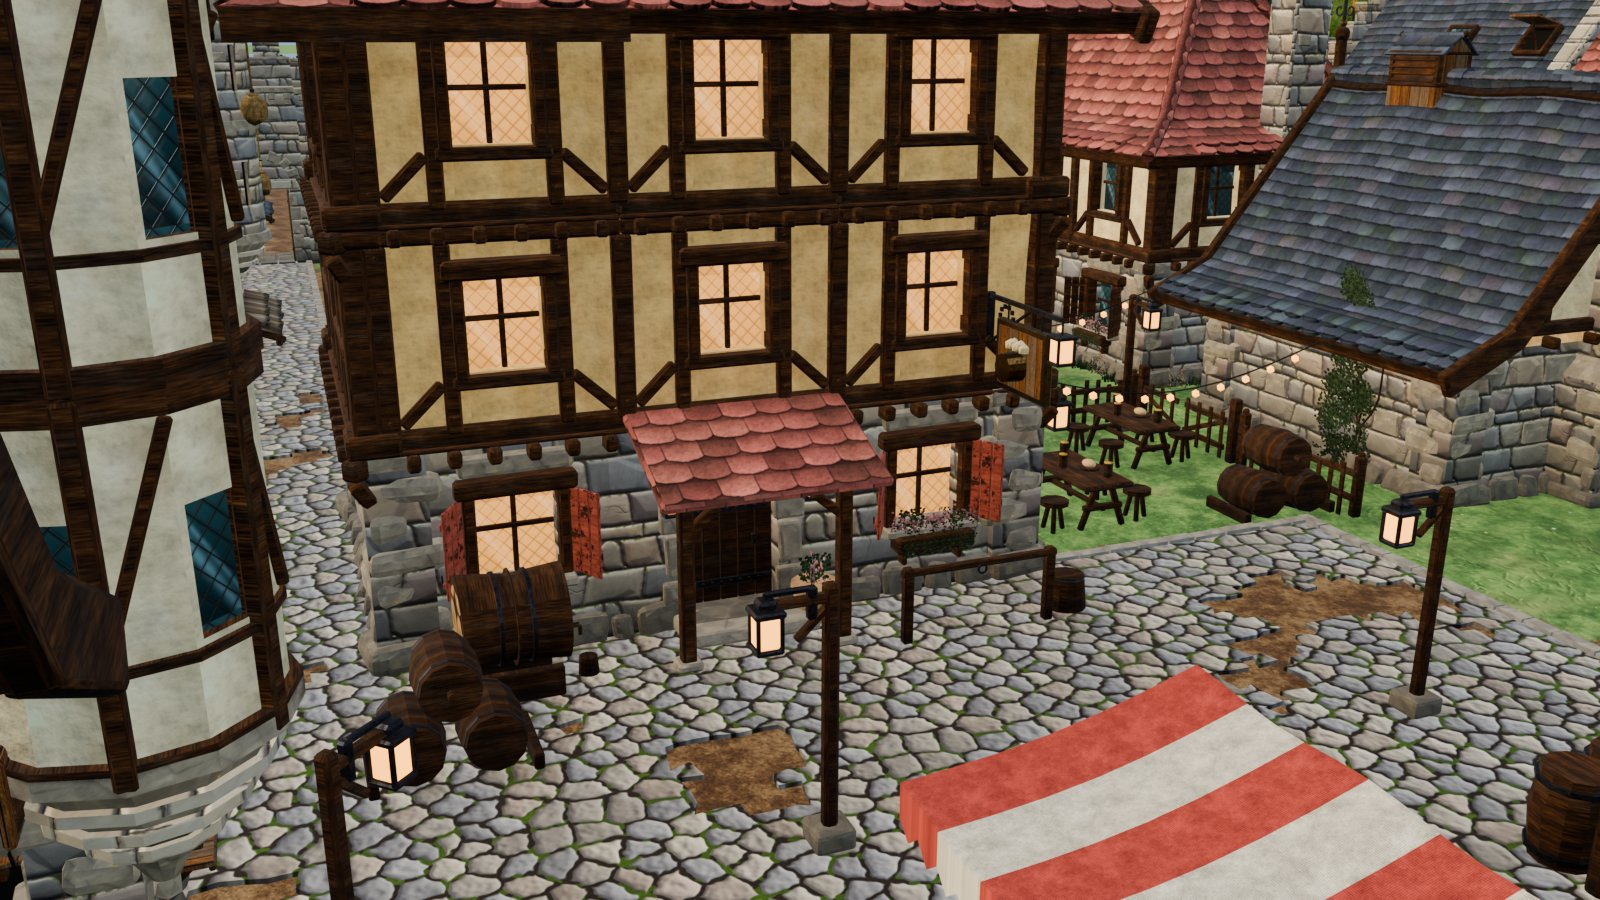
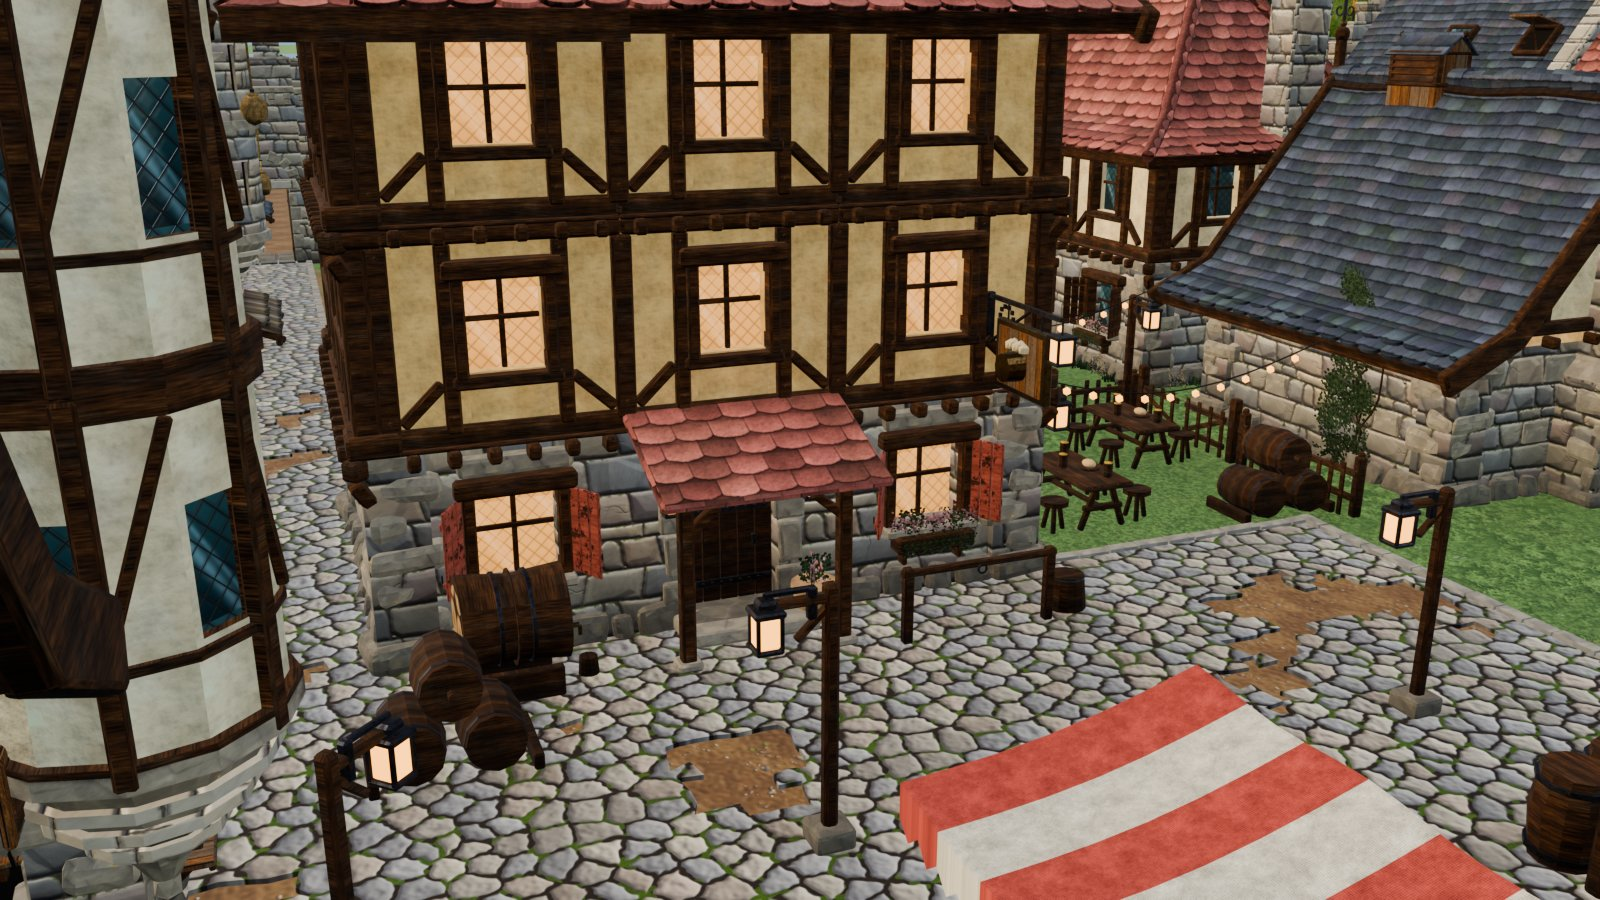
Ground textures that read as the material: new dirt and grass
The old dirt and grass were built from big, high-contrast low-frequency noise
(dark and light blotches) plus thin dark lines, so they read as a stained
surface rather than earth or turf.

- gen_dirt_v2: calm warm-brown base; packed and loose areas; soft clods, grit,
  irregular flat-topped pebbles and a few bigger stones (partly soiled), lit like
  the cobbles; a few grass sprigs and straw bits; no hairline cracks
- gen_grass_v2: dense painted tufts of tapered, slightly curved blades (dark base,
  light tip, leaning one way) in two layers over darker gaps; colour drifts only
  slightly; some tips yellowing; small flower clusters
- _stamp_domes: tileable elliptic dome stamping with irregular outlines
- both generated at 2048 and stored at 1024 (same memory as before); the old
  generators are kept
- docs and gallery images updated

diff --git a/src/textures/vk_tex2.py b/src/textures/vk_tex2.py
@@ -763,6 +763,61 @@ def gen_grass(S=1024,seed=401,T=4.0,depth=0.02,out_prefix="T_VK_Grass",write=Tru
         write_set(out_prefix,col,h,R,depth,T,ao_in_albedo=0.35); PBR_SETS[out_prefix]=dict(depth=depth,tile=T)
     return col
 
+def gen_grass_v2(S=2048,seed=402,T=4.0,depth=0.025,out_prefix="T_VK_Grass",write=True):
+    """hand-painted turf: dense tufts of tapered, slightly curved blades (dark at the base, light at the tip, leaning
+    roughly one way) painted over darker gaps. The colour only drifts slightly over the tile (no blotches); some tips
+    turn a little yellow; a few small flower clusters. Generated at S, stored at S/2."""
+    rng=np.random.default_rng(seed); px=T/S
+    lo=smooth(-1.8,1.8,fbm(S,2.6,seed,fmin=1.5,fmax=8))
+    col=lerp(hx("#3B621B"),hx("#436E1F"),lo[...,None])*(1+0.04*fbm(S,2.0,seed+1,fmin=10,fmax=80))[...,None]
+    h=np.full((S,S),0.2,f32)
+    warm=smooth(0.0,1.6,fbm(S,2.4,seed+2,fmin=1.5,fmax=6))
+    BASE=[hx("#4A7922"),hx("#528324"),hx("#4B7B2B")]; TIP=[hx("#86B23C"),hx("#92BB44"),hx("#7EAD40")]; DRY=hx("#B9B55C")
+    lean=-math.pi/2; offs=(-S,0,S)
+    n_under=int((T/0.06)**2); n_top=int((T/0.058)**2)
+    for q in range(n_under+n_top):
+        under=q<n_under                                   # first a darker, longer layer, then the lit top layer
+        cx,cy=rng.uniform(0,S,2); w_=float(warm[int(cy)%S,int(cx)%S])
+        nb=int(rng.integers(6,11)); Lm=rng.uniform(0.05,0.09 if under else 0.075)/px
+        ang=lean+rng.uniform(-2.0,2.0,nb); L=Lm*(0.55+0.45*np.cos(ang-lean))*rng.uniform(0.8,1.1,nb)
+        wid=rng.uniform(0.007,0.011)/px; bend=rng.uniform(-0.18,0.18,nb)
+        ci=int(rng.integers(0,3)); k_=0.8 if under else 1.0
+        bc=BASE[ci]*rng.uniform(0.94,1.06)*k_; tc=lerp(TIP[ci],DRY,0.55*w_*rng.random())*(0.86 if under else 1.0)
+        R=float(L.max()+wid+2)
+        for ox in offs:
+            for oy in offs:
+                ax,ay=cx+ox,cy+oy
+                lx=max(0,int(ax-R)); hx_=min(S,int(ax+R)+1); ly=max(0,int(ay-R)); hy_=min(S,int(ay+R)+1)
+                if lx>=hx_ or ly>=hy_: continue
+                yy,xx=np.mgrid[ly:hy_,lx:hx_].astype(f32); du=xx+0.5-ax; dv=yy+0.5-ay
+                cw=col[ly:hy_,lx:hx_]; hw=h[ly:hy_,lx:hx_]
+                for b in range(nb):
+                    dx,dy=math.cos(ang[b]),math.sin(ang[b])
+                    t=(du*dx+dv*dy)/L[b]; tc_=np.clip(t,0,1)
+                    perp=np.abs(-du*dy+dv*dx-bend[b]*L[b]*tc_*tc_)
+                    m=np.clip(wid*(1-0.85*tc_)*0.5-perp+0.5,0,1)*((t>=-0.05)&(t<=1.0))
+                    if not m.any(): continue
+                    cb=lerp(bc,tc,(tc_**0.8)[...,None])
+                    cw[:]=lerp(cw,cb,m[...,None]); np.maximum(hw,m*(0.45+0.4*tc_),out=hw)
+    # a few small flower clusters
+    segs=[[],[],[]]
+    for _ in range(34):
+        bx,by=rng.uniform(0,S,2); k=int(rng.integers(0,3))
+        for _d in range(int(rng.integers(3,8))):
+            fx,fy=bx+rng.normal(0,14),by+rng.normal(0,10); segs[k].append((fx,fy,fx+0.01,fy,rng.uniform(4.5,7.0)))
+    fl=np.zeros((S,S),f32)
+    for k,c_ in enumerate(("#F1ECD8","#F0D24E","#C7A6DC")):
+        if segs[k]:
+            m=draw_segments(S,segs[k]); col=lerp(col,hx(c_),m[...,None]); fl=np.maximum(fl,m)
+    h=np.clip(h+0.15*fl,0,1).astype(f32)
+    lt=painted_light(normal_from_height(blur(h,1.2),depth*3,T)); col=col*(0.86+0.26*lt[...,None])
+    R=np.clip(0.9-0.05*fl,0,1).astype(f32)
+    bc_,h1,R1=down2(np.clip(col,0,1).astype(f32)),down2(h),down2(R)
+    ao=cavity_ao(h1,radii=(2,6,18),k=(1.6,1.0,0.5),floor=0.55)
+    if write:
+        write_set(out_prefix,bc_,h1,R1,depth,T,ao=ao,ao_in_albedo=0.3); PBR_SETS[out_prefix]=dict(depth=depth,tile=T)
+    return bc_*(0.7+0.3*ao)[...,None]
+
 def gen_cliff(S=2048,seed=421,T=6.0,depth=0.10,out_prefix="T_VK_Cliff",write=True):
     """layered natural rock: 4 bands per 6 m repeat, band boundaries at world z = 1.5k (tier boundaries)"""
     rng=np.random.default_rng(seed); px=T/S
@@ -937,6 +992,95 @@ def gen_dirt(S=1024,seed=451,T=4.0,depth=0.03,out_prefix="T_VK_Dirt",write=True)
     R=np.clip(0.95-0.1*peb,0,1).astype(f32)
     if write: write_set(out_prefix,np.clip(col,0,1).astype(f32),h,R,depth,T,ao_in_albedo=0.4); PBR_SETS[out_prefix]=dict(depth=depth,tile=T)
     return col
+
+def _stamp_domes(S,items,wrap=True,flat=0.5,irr=0.0,rng=None):
+    """items: (cx, cy, rx, ry, angle, peak) in pixels -> elliptic domes, max-blended, tileable. flat: profile exponent
+    (0.5 = round dome, lower = flatter top, steeper sides); irr: outline irregularity (random low harmonics per item).
+    Returns height (max of the domes), anti-aliased coverage (0..1) and the id of the topmost item (-1 = none)."""
+    H=np.zeros((S,S),f32); C=np.zeros((S,S),f32); ID=np.full((S,S),-1,np.int32)
+    offs=(-S,0,S) if wrap else (0,)
+    rng=rng or np.random.default_rng(0)
+    for k,(cx,cy,rx,ry,ang,peak) in enumerate(items):
+        hm=[(n_,rng.uniform(0,2*math.pi),irr*rng.uniform(0.3,1.0)/n_) for n_ in (2,3,5)] if irr>0 else []
+        R=max(rx,ry)*(1+irr)+1.5; c,s=math.cos(ang),math.sin(ang)
+        for ox in offs:
+            for oy in offs:
+                ax,ay=cx+ox,cy+oy
+                lx=max(0,int(math.floor(ax-R))); hx_=min(S,int(math.ceil(ax+R)))
+                ly=max(0,int(math.floor(ay-R))); hy_=min(S,int(math.ceil(ay+R)))
+                if lx>=hx_ or ly>=hy_: continue
+                yy,xx=np.mgrid[ly:hy_,lx:hx_].astype(f32)
+                du=xx+0.5-ax; dv=yy+0.5-ay
+                u=(du*c+dv*s)/rx; v=(-du*s+dv*c)/ry; r=np.sqrt(u*u+v*v)
+                if hm:
+                    th=np.arctan2(v,u); r=r/(1+sum(a_*np.cos(n_*th+p_) for (n_,p_,a_) in hm))
+                dome=(np.clip(1-r*r,0,1)**flat*peak).astype(f32)
+                cov=np.clip((1-r)*min(rx,ry)+0.5,0,1).astype(f32)
+                hs=H[ly:hy_,lx:hx_]; m=dome>hs; hs[m]=dome[m]; ID[ly:hy_,lx:hx_][m]=k
+                cs=C[ly:hy_,lx:hx_]; np.maximum(cs,cov,out=cs)
+    return H,C,ID
+
+def gen_dirt_v2(S=2048,seed=452,T=4.0,depth=0.035,out_prefix="T_VK_Dirt",write=True):
+    """hand-painted earth. The base is a calm warm brown (a small value range, so it never reads as stains); the detail
+    is small-scale: grit, soft clods, irregular flat-topped pebbles and a few bigger stones (partly soiled), lit like
+    the cobbles, a few grass sprigs and straw bits. No cracks: thin dark lines read as hairs at game distance.
+    Generated at S, stored at S/2."""
+    rng=np.random.default_rng(seed); px=T/S
+    lo=fbm(S,2.6,seed,fmin=1.5,fmax=8); mid=fbm(S,2.2,seed+1,fmin=8,fmax=48)
+    loose=smooth(-0.4,0.9,fbm(S,2.4,seed+2,fmin=2,fmax=10))              # 0 packed .. 1 loose (grit, clods, pebbles)
+    col=lerp(hx("#7A593B"),hx("#8E6C46"),smooth(-1.6,1.6,lo)[...,None])
+    col=col*(1+0.035*mid[...,None])
+    col=lerp(col,col*np.array([0.94,0.955,1.0],f32),0.45*(1-loose)[...,None])     # packed: a touch darker, cooler
+    # soft clods of mixed sizes, fading out where the soil is packed
+    items=[]
+    for _ in range(800):
+        cx,cy=rng.uniform(0,S,2); l_=loose[int(cy)%S,int(cx)%S]
+        if rng.random()>0.2+0.8*l_: continue
+        r=rng.uniform(0.018,0.075)/px
+        items.append((cx,cy,r*rng.uniform(0.85,1.35),r*rng.uniform(0.5,0.9),rng.uniform(0,math.pi),rng.uniform(0.12,0.4)*(0.5+0.5*l_)))
+    Hc,Cc,_=_stamp_domes(S,items,flat=0.8,irr=0.35,rng=rng)
+    h=0.35+0.04*mid+0.3*blur(Hc,2.0)
+    # grit: light and dark specks
+    g=fbm(S,0.8,seed+3,fmin=180,fmax=1000)
+    lite=smooth(1.7,2.4,g)*(0.5+0.5*loose); dark=smooth(1.8,2.6,-g)
+    col=lerp(col,hx("#B89C74"),0.6*lite[...,None]); col=lerp(col,hx("#553B27"),0.55*dark[...,None])
+    h=h+0.05*lite-0.04*dark
+    # pebbles and a few bigger stones, more of them where the soil is loose
+    peb=[]
+    for _ in range(620):
+        cx,cy=rng.uniform(0,S,2)
+        if rng.random()>0.12+0.88*loose[int(cy)%S,int(cx)%S]: continue
+        big=rng.random()<0.09; r=(rng.uniform(0.028,0.05) if big else rng.uniform(0.011,0.026))/px
+        peb.append((cx,cy,r*rng.uniform(0.95,1.35),r*rng.uniform(0.6,0.9),rng.uniform(0,math.pi),0.55 if big else 0.42))
+    Hp,Cp,IDp=_stamp_domes(S,peb,flat=0.3,irr=0.28,rng=rng)
+    PAL=np.stack([hx(c_) for c_ in ("#9A9082","#A89E8C","#8C8174","#A0876A","#B2A48A","#8A7258","#A6906F","#7D776E")])
+    pid=rng.integers(0,len(PAL),len(peb)); val=rng.uniform(0.9,1.08,len(peb)).astype(f32)
+    buried=rng.uniform(0.0,0.45,len(peb)).astype(f32)                      # dust / soil left on each stone
+    ide=np.maximum(IDp,0)
+    pc=(PAL[pid]*val[:,None])[ide]*(1+0.06*fbm(S,1.5,seed+4,fmin=60))[...,None]
+    pc=lerp(pc,col,(buried[ide]*(1-smooth(0.1,0.5,Hp/0.5)))[...,None])     # soil creeps up the stone's sides
+    col=lerp(col,pc,Cp[...,None]); h=h+0.5*Hp
+    # grass sprigs (in small clusters) and straw bits
+    segs=[]
+    for _ in range(26):
+        bx,by=rng.uniform(0,S,2)
+        for _b in range(rng.integers(5,14)):
+            a=rng.uniform(-2.6,-0.5); L=rng.uniform(10,22); x0,y0=bx+rng.normal(0,9),by+rng.normal(0,6)
+            segs.append((x0,y0,x0+math.cos(a)*L,y0+math.sin(a)*L,rng.uniform(2.2,3.2)))
+    sp=draw_segments(S,segs); col=lerp(col,lerp(hx("#5F7F2A"),hx("#8CAB3E"),rng.random()),0.9*sp[...,None]); h=h+0.2*sp
+    segs=[]
+    for _ in range(45):
+        bx,by=rng.uniform(0,S,2); a=rng.uniform(0,math.pi); L=rng.uniform(10,20)
+        segs.append((bx,by,bx+math.cos(a)*L,by+math.sin(a)*L,2.0))
+    st=draw_segments(S,segs); col=lerp(col,hx("#BFA266"),0.8*st[...,None]); h=h+0.1*st
+    h=np.clip(h,0,1).astype(f32)
+    col,_=paint_form_light(np.clip(col,0,1).astype(f32),h,depth,T,hig=0.16,log=0.24,post=0.3,ex=2.0)
+    R=np.clip(0.94-0.12*Cp-0.03*lite,0,1).astype(f32)
+    bc,h1,R1=down2(np.clip(col,0,1).astype(f32)),down2(h),down2(R)
+    ao=cavity_ao(h1,radii=(2,6,18),k=(2.2,1.6,0.8),floor=0.45)
+    if write:
+        write_set(out_prefix,bc,h1,R1,depth,T,ao=ao,ao_in_albedo=0.4); PBR_SETS[out_prefix]=dict(depth=depth,tile=T)
+    return bc*(0.6+0.4*ao)[...,None]
 
 def gen_cobble(S=1024,seed=461,T=4.0,depth=0.05,out_prefix="T_VK_Cobble",write=True):
     rng=np.random.default_rng(seed); x,y=grid(S)

diff --git a/docs/KIT_README.md b/docs/KIT_README.md
@@ -29,7 +29,7 @@ Other scenes: `MedievalColony` (first colony diorama, `mc_helpers`), `StoneWallK
 | `vk_helpers` | `src/core/` | Core kit: the `Kit` bmesh builder, 52 material slots, core pieces, `full_rebuild()`, `place_v()`, variant styles, market stalls (`STALL_TRADES`), landmarks (`build_smithy`, `build_inn`), lit windows. |
 | `vk_mat` | `src/core/` | PBR material builder, `MAT_MAP`, `apply_pbr_all()`, `TONE_MAP`. Executed by `vk_helpers`. |
 | `vk_render` | `src/core/` | `shot(name, cam_loc, target, lens, res, ...)` render helper (default output `renders/wip/`). |
-| `vk_tex`, `vk_texgen`, `vk_tex2` | `src/textures/` | Procedural PBR texture generators (`_BC/_N/_H/_R/_AO`), written to `assets/textures/` and packed. `vk_tex2`: stone rework, wattle, net, slate/shingle roofs, terrain textures. |
+| `vk_tex`, `vk_texgen`, `vk_tex2` | `src/textures/` | Procedural PBR texture generators (`_BC/_N/_H/_R/_AO`), written to `assets/textures/` and packed. `vk_tex2`: stone rework, wattle, net, slate/shingle roofs, terrain textures (current: `gen_grass_v2`, `gen_dirt_v2`, `gen_cliff_v2`; the older generators are kept). |
 | `vk_leafgen` | `src/textures/` | Leaf/flower atlas `T_VK_Leaves_*` (one cell per plant), `repaint_leaf_cell(cell)`. |
 | `vk_mod_humble` … `vk_mod_defence` | `src/modules/` | 8 expansion modules: pieces (`WS_SPECS` → `EXTRA_SPECS`) and builders `build_*`. |
 | `vk_nature` | `src/nature/` | Nature kit (trees, bushes, rocks…), `NATURE_SPECS` + `rebuild_nature()` + `check_nature_specs()`. |

diff --git a/HANDOFF.md b/HANDOFF.md
@@ -23,6 +23,12 @@ Overview and folder map: [README.md](README.md). Kit reference: [docs/KIT_README
   few missing-stone patches; market stalls sell different goods; landmark buildings (smithy, inn) must stand out;
   shutters mostly have fresh paint (about 1 in 5 worn); the user likes Unity-style camera controls
   (`blender_addons/unity_nav.py`, installed).
+  More taste notes:
+  - Built things look man-made: stairs are cobble with dressed stone, not dirt and cliff rock.
+  - Ground textures must read as the material, not grime: a calm base colour with small-scale structure, never big
+    dark blotches or thin dark lines that look like hairs. Dirt has pebbles and clods (`gen_dirt_v2`); grass is dense
+    painted tufts over darker gaps (`gen_grass_v2`).
+  - Cliffs are natural, never trim-like.
 
 ## 2. Opening the project
 
